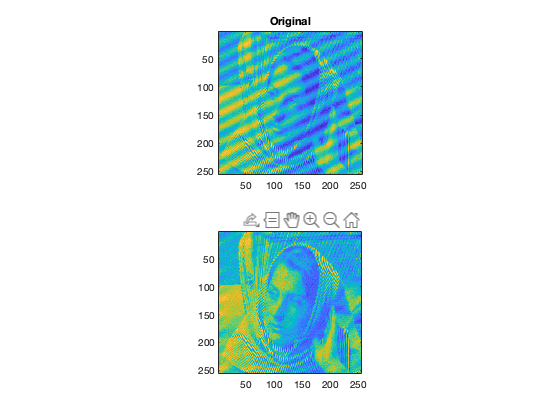
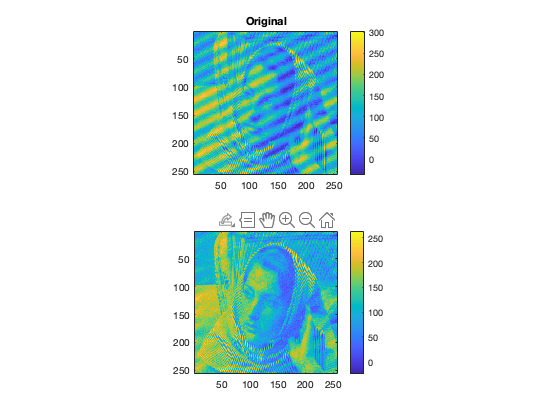
q3 modified

Changed region(s): [[0.3036, 0.031, 0.6982, 0.4643], [0.3036, 0.4952, 0.6982, 0.9286]]

diff --git a/assignment-5-Fourier-Image-Restoration/3/report/myMainScript.html b/assignment-5-Fourier-Image-Restoration/3/report/myMainScript.html
@@ -6,7 +6,7 @@
    <!--
 This HTML was auto-generated from MATLAB code.
 To make changes, update the MATLAB code and republish this document.
-      --><title>Q3</title><meta name="generator" content="MATLAB 9.8"><link rel="schema.DC" href="http://purl.org/dc/elements/1.1/"><meta name="DC.date" content="2020-11-13"><meta name="DC.source" content="myMainScript.m"><style type="text/css">
+      --><title>Q3</title><meta name="generator" content="MATLAB 9.8"><link rel="schema.DC" href="http://purl.org/dc/elements/1.1/"><meta name="DC.date" content="2020-11-16"><meta name="DC.source" content="myMainScript.m"><style type="text/css">
 html,body,div,span,applet,object,iframe,h1,h2,h3,h4,h5,h6,p,blockquote,pre,a,abbr,acronym,address,big,cite,code,del,dfn,em,font,img,ins,kbd,q,s,samp,small,strike,strong,sub,sup,tt,var,b,u,i,center,dl,dt,dd,ol,ul,li,fieldset,form,label,legend,table,caption,tbody,tfoot,thead,tr,th,td{margin:0;padding:0;border:0;outline:0;font-size:100%;vertical-align:baseline;background:transparent}body{line-height:1}ol,ul{list-style:none}blockquote,q{quotes:none}blockquote:before,blockquote:after,q:before,q:after{content:'';content:none}:focus{outine:0}ins{text-decoration:none}del{text-decoration:line-through}table{border-collapse:collapse;border-spacing:0}
 
 html { min-height:100%; margin-bottom:1px; }
@@ -67,7 +67,7 @@ table td { padding:7px 5px; text-align:left; vertical-align:top; border:1px soli
 
 
 
-  </style></head><body><div class="content"><h1>Q3</h1><!--introduction--><!--/introduction--><h2>Contents</h2><div><ul><li><a href="#2">Images</a></li><li><a href="#3">Fourier plots</a></li></ul></div><p>To remove the periodic noise, we apply a notch filter. The steps are given below:</p><div><ol><li>Pad the HxW image to get a 2Hx2W image.</li><li>Calculate the 2D Fourier Transform.</li><li>Examine the log magnitude plot to find the noise frequency. Say bin (x, y) corresponds to the noise.</li><li>Apply a notch filter centred at (x,y). The notch filter has a one sided-window of length 7 such that the border pixels have an attenuation of <img src="myMainScript_eq00957679905736456308.png" alt="$10^{-3}$"> and as we move in towards the centre, the attenuation of all 8 pixels which are equidistant from the centre gets multiplied by <img src="myMainScript_eq00957679905736456308.png" alt="$10^{-3}$">.</li><li>Since the image is real, the plot is symmetric about the centre frequency. hence, we need to apply the same filter to the pixel which is symmetrically located from (x,y), across the centre bin.</li><li>Calculate the inverse 2D DFT and crop out the central HxW portion. This is the final desired filtered image.</li></ol></div><p>Load noisy image</p><h2 id="2">Images</h2><img vspace="5" hspace="5" src="myMainScript_01.png" alt=""> <h2 id="3">Fourier plots</h2><img vspace="5" hspace="5" src="myMainScript_02.png" alt=""> <p class="footer"><br><a href="https://www.mathworks.com/products/matlab/">Published with MATLAB&reg; R2020a</a><br></p></div><!--
+  </style></head><body><div class="content"><h1>Q3</h1><!--introduction--><!--/introduction--><h2>Contents</h2><div><ul><li><a href="#2">Images</a></li><li><a href="#3">Fourier plots</a></li><li><a href="#4">Notch filter</a></li></ul></div><p>To remove the periodic noise, we apply a notch filter. The steps are given below:</p><div><ol><li>Pad the HxW image to get a 2Hx2W image.</li><li>Calculate the 2D Fourier Transform.</li><li>Examine the log magnitude plot to find the noise frequency. We found the periodic noise pattern at (u, v) bins: (277, 267) and (237, 247). (Since the image is real, the plot is symmetric about the centre frequency.)</li><li>Apply a notch filter centred at (x,y). The notch filter has a one sided-window of length 7 such that the border pixels have an attenuation of 1 and as we move in towards the centre, the attenuation of all 8 pixels which are equidistant from the centre gets multiplied by <img src="myMainScript_eq04824699449894430030.png" alt="$10^{-2}$">.</li><li>Calculate the inverse 2D DFT and crop out the central HxW portion. This is the final desired filtered image.</li></ol></div><h2 id="2">Images</h2><img vspace="5" hspace="5" src="myMainScript_01.png" alt=""> <h2 id="3">Fourier plots</h2><img vspace="5" hspace="5" src="myMainScript_02.png" alt=""> <h2 id="4">Notch filter</h2><img vspace="5" hspace="5" src="myMainScript_03.png" alt=""> <p class="footer"><br><a href="https://www.mathworks.com/products/matlab/">Published with MATLAB&reg; R2020a</a><br></p></div><!--
 ##### SOURCE BEGIN #####
 %% Q3
 %%
@@ -76,19 +76,26 @@ table td { padding:7px 5px; text-align:left; vertical-align:top; border:1px soli
 %
 % # Pad the HxW image to get a 2Hx2W image.
 % # Calculate the 2D Fourier Transform.
-% # Examine the log magnitude plot to find the noise frequency. Say bin (x, y) corresponds to the noise.
+% # Examine the log magnitude plot to find the noise frequency. We found
+% the periodic noise pattern at (u, v) bins: (277, 267) and (237, 247).
+% (Since the image is real, the plot is symmetric about
+% the centre frequency.)
 % # Apply a notch filter centred at (x,y). The notch filter has a one sided-window
-% of length 7 such that the border pixels have an attenuation of $10^{-3}$
+% of length 7 such that the border pixels have an attenuation of 1
 % and as we move in towards the centre, the attenuation of all 8 pixels
-% which are equidistant from the centre gets multiplied by $10^{-3}$.
-% # Since the image is real, the plot is symmetric about the centre frequency.
-% hence, we need to apply the same filter to the pixel which is symmetrically located from
-% (x,y), across the centre bin.
+% which are equidistant from the centre gets multiplied by $10^{-2}$.
 % # Calculate the inverse 2D DFT and crop out the central HxW portion. This
 % is the final desired filtered image.
-%
+
 % Load noisy image
 orig = load('../data/image_low_frequency_noise.mat').Z;
+% define notch
+w = int16(7);
+total = 2*w+1;
+notch = ones(total,total);
+for i = 1:w
+    notch(1+i:total-i, 1+i:total-i) = 1e-2*notch(1+i:total-i, 1+i:total-i);
+end
 % pad and fourier
 padding = size(orig)./2;
 padded_image = padarray(orig, padding);
@@ -97,7 +104,7 @@ log_fourier = log(abs(padded_fourier)+1);
 % imagesc(log_fourier);
 % colorbar;
 % apply filter
-filtered_fourier = myNotchFilter(padded_fourier, 277, 266);
+filtered_fourier = myNotchFilter(padded_fourier, 277, 267, notch, w);
 log_fil_fourier = log(abs(filtered_fourier)+1);
 % imagesc(log_fil_fourier);
 % colorbar;
@@ -109,33 +116,28 @@ filtered = filtered(padding(1)+1:end-padding(1), padding(2)+1:end-padding(2));
 %% Images
 subplot(2,1,1), imagesc(orig);
 daspect([1 1 1]);
+colorbar;
 title('Original');
 subplot(2,1,2), imagesc(filtered);
 daspect([1 1 1]);
+colorbar;
 title('Filtered');
 %% Fourier plots
 subplot(2,1,1), imagesc(log_fourier);
 daspect([1 1 1]);
+colorbar;
 title('Original');
 subplot(2,1,2), imagesc(log_fil_fourier);
 daspect([1 1 1]);
+colorbar;
 title('Filtered');
 % colorbar;
 
-% without padding
-% %% get FT
-% orig_fourier = fftshift(fft2(orig));
-% log_fourier = log(abs(orig_fourier)+1);
-% imagesc(log_fourier);
-% colorbar;
-% %% zero out the components
-% filtered_fourier = myNotchFilter(orig_fourier, 139, 134);
-% log_fil_fourier = log(abs(filtered_fourier)+1);
-% imagesc(log_fil_fourier);
-% colorbar;
-% %% reconstruct
-% filtered = real(ifft2(ifftshift(filtered_fourier)));
-% imagesc(filtered);
-
+%% Notch filter
+subplot(1,1,1);
+imagesc(log(notch));
+title('Log magnitude');
+daspect([1 1 1]);
+colorbar;
 ##### SOURCE END #####
 --></body></html>

diff --git a/assignment-5-Fourier-Image-Restoration/3/code/myMainScript.m b/assignment-5-Fourier-Image-Restoration/3/code/myMainScript.m
@@ -5,19 +5,26 @@
 %
 % # Pad the HxW image to get a 2Hx2W image.
 % # Calculate the 2D Fourier Transform.
-% # Examine the log magnitude plot to find the noise frequency. Say bin (x, y) corresponds to the noise.
+% # Examine the log magnitude plot to find the noise frequency. We found
+% the periodic noise pattern at (u, v) bins: (277, 267) and (237, 247).
+% (Since the image is real, the plot is symmetric about
+% the centre frequency.)
 % # Apply a notch filter centred at (x,y). The notch filter has a one sided-window
-% of length 7 such that the border pixels have an attenuation of $10^{-3}$
+% of length 7 such that the border pixels have an attenuation of 1
 % and as we move in towards the centre, the attenuation of all 8 pixels
-% which are equidistant from the centre gets multiplied by $10^{-3}$.
-% # Since the image is real, the plot is symmetric about the centre frequency.
-% hence, we need to apply the same filter to the pixel which is symmetrically located from
-% (x,y), across the centre bin.
+% which are equidistant from the centre gets multiplied by $10^{-2}$.
 % # Calculate the inverse 2D DFT and crop out the central HxW portion. This
 % is the final desired filtered image.
-%
+
 % Load noisy image
 orig = load('../data/image_low_frequency_noise.mat').Z;
+% define notch
+w = int16(7);
+total = 2*w+1;
+notch = ones(total,total);
+for i = 1:w
+    notch(1+i:total-i, 1+i:total-i) = 1e-2*notch(1+i:total-i, 1+i:total-i);
+end
 % pad and fourier
 padding = size(orig)./2;
 padded_image = padarray(orig, padding);
@@ -26,7 +33,7 @@ log_fourier = log(abs(padded_fourier)+1);
 % imagesc(log_fourier);
 % colorbar;
 % apply filter
-filtered_fourier = myNotchFilter(padded_fourier, 277, 266);
+filtered_fourier = myNotchFilter(padded_fourier, 277, 267, notch, w);
 log_fil_fourier = log(abs(filtered_fourier)+1);
 % imagesc(log_fil_fourier);
 % colorbar;
@@ -38,30 +45,26 @@ filtered = filtered(padding(1)+1:end-padding(1), padding(2)+1:end-padding(2));
 %% Images
 subplot(2,1,1), imagesc(orig);
 daspect([1 1 1]);
+colorbar;
 title('Original');
 subplot(2,1,2), imagesc(filtered);
 daspect([1 1 1]);
+colorbar;
 title('Filtered');
 %% Fourier plots
 subplot(2,1,1), imagesc(log_fourier);
 daspect([1 1 1]);
+colorbar;
 title('Original');
 subplot(2,1,2), imagesc(log_fil_fourier);
 daspect([1 1 1]);
+colorbar;
 title('Filtered');
 % colorbar;
 
-% without padding
-% %% get FT
-% orig_fourier = fftshift(fft2(orig));
-% log_fourier = log(abs(orig_fourier)+1);
-% imagesc(log_fourier);
-% colorbar;
-% %% zero out the components
-% filtered_fourier = myNotchFilter(orig_fourier, 139, 134);
-% log_fil_fourier = log(abs(filtered_fourier)+1);
-% imagesc(log_fil_fourier);
-% colorbar;
-% %% reconstruct
-% filtered = real(ifft2(ifftshift(filtered_fourier)));
-% imagesc(filtered);
+%% Notch filter
+subplot(1,1,1);
+imagesc(log(notch));
+title('Log magnitude');
+daspect([1 1 1]);
+colorbar;

diff --git a/assignment-5-Fourier-Image-Restoration/3/code/myNotchFilter.m b/assignment-5-Fourier-Image-Restoration/3/code/myNotchFilter.m
@@ -1,11 +1,5 @@
-function [filtered] = myNotchFilter(fourier, u, v)
+function [filtered] = myNotchFilter(fourier, u, v, notch, w)
 filtered = fourier;
-w = int16(7);
-total = 2*w+1;
-notch = ones(total,total);
-for i = 1:w
-    notch(1+i:total-1, 1+i:total-1) = 1e-2*notch(1+i:total-1, 1+i:total-1);
-end
 
 cx = int16(size(fourier, 1)/2)+1;
 cy = int16(size(fourier, 2)/2)+1;

diff --git a/assignment-5-Fourier-Image-Restoration/4/code/myMainScript.m b/assignment-5-Fourier-Image-Restoration/4/code/myMainScript.m
@@ -25,7 +25,7 @@ tic;
 barbara = imread('../data/barbara256.png');
 padding = size(barbara)./2;
 padded_barbara = barbara;
-% padded_barbara = padarray(barbara, padding);
+padded_barbara = padarray(barbara, padding);
 imagesc(padded_barbara);
 title('Original Image');
 colorbar;
